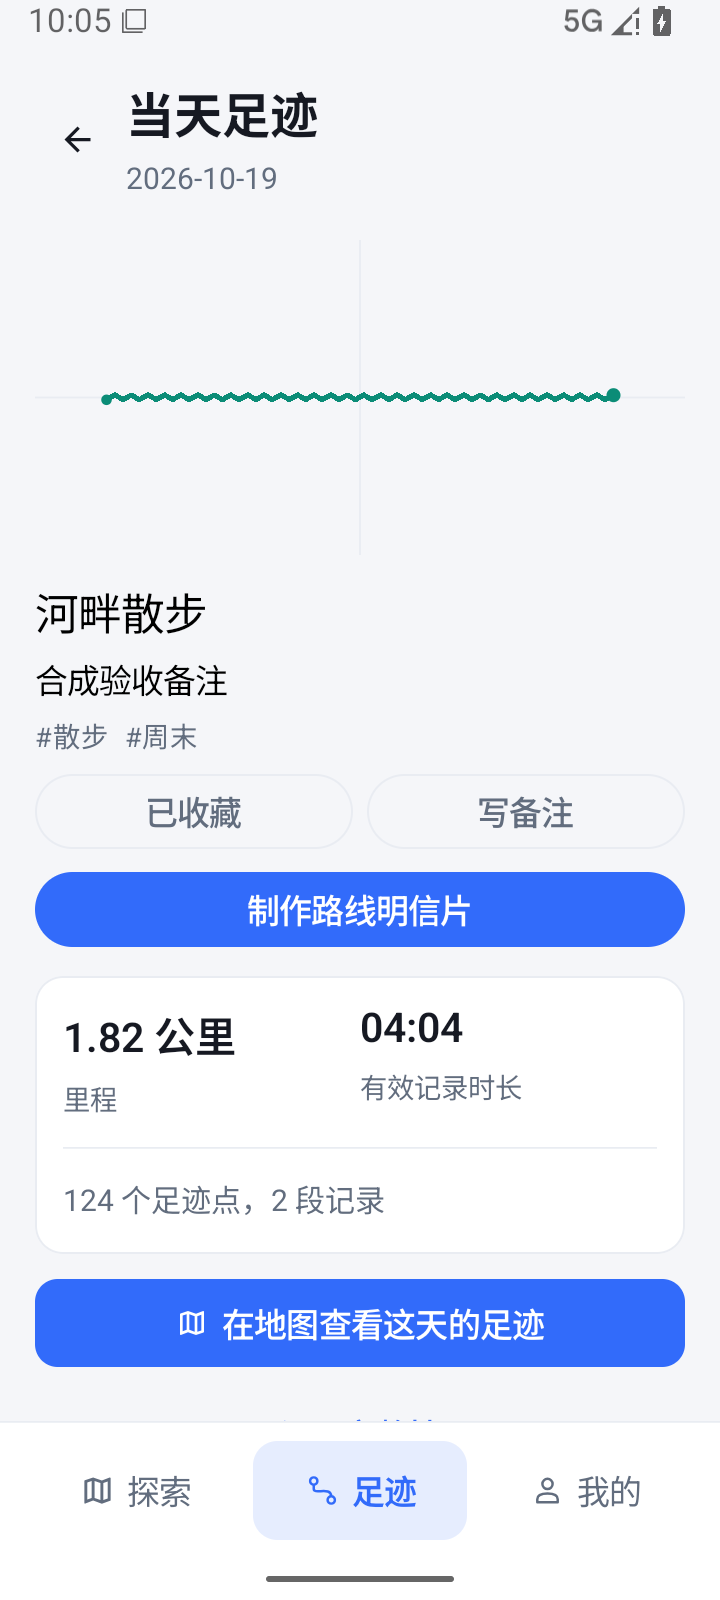
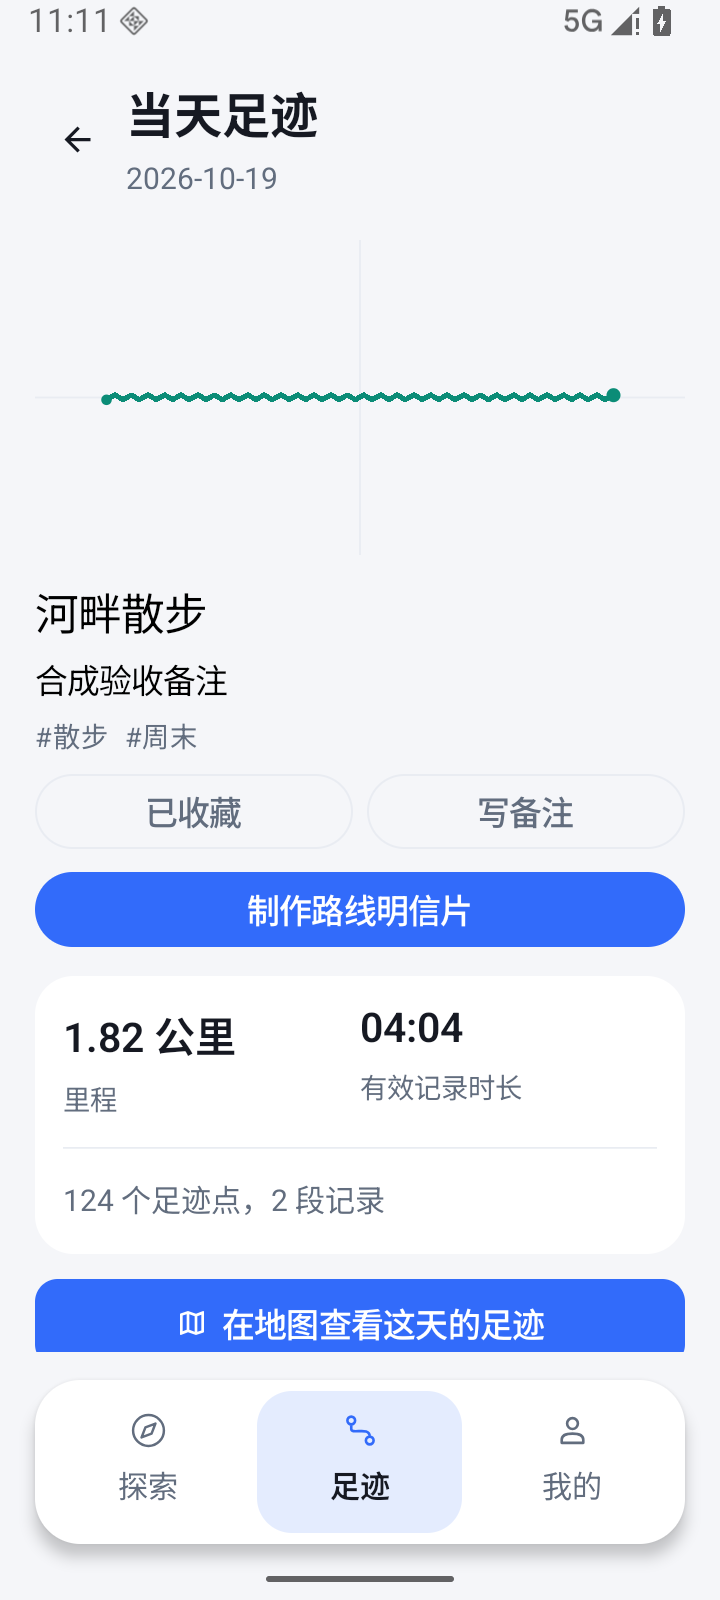
Archive final integrated native journey and source-bound acceptance evidence

Changed region(s): [[0.0306, 0.8438, 0.9778, 1.0], [0.0611, 0.0, 0.2139, 0.0312]]

diff --git a/docs/acceptance/v0.65/README.md b/docs/acceptance/v0.65/README.md
@@ -1,6 +1,6 @@
 # 0.65 候选验收
 
-范围：默认高德的首次体验简化；按天收藏、标题、备注、标签、查找；纸白/夜色路线明信片预览、保存和系统分享；行记随既有 JSON 备份恢复。已合并上游发布的0.64，保留单一高德引擎与历史回放。决策和参考项目见 [体验范围](../../design/experience-20261019.md)。本候选未正式发布。
+范围：默认高德的首次体验简化；按天收藏、标题、备注、标签、查找；纸白/夜色路线明信片预览、保存和系统分享；行记随既有 JSON 备份恢复。已合并上游发布的0.64及a88a11f的自适应导航，保留单一高德引擎与历史回放。决策和参考项目见 [体验范围](../../design/experience-20261019.md)。本候选未正式发布。
 
 ## 数据与交互
 
@@ -14,13 +14,15 @@ GPS过滤、WGS84原件、真实分段、recording_cursor、SQLite schema3保持
 - JDK21 / SDK36，独立开发APK、androidTest构建与lintDebug通过；使用代理及现有CA信任，不关闭TLS。
 - 校验发行摘要后运行与仓库工作流同版的Gitleaks 8.30.1，本分支扫描无凭据泄漏。
 - 原生隔离备份恢复：旧格式、新行记往返、本机编辑优先、重复恢复、未来点原子拒绝、损坏行记保留原件且不丢已恢复轨迹、记录游标保持。见 [结果](backup-restore.log)。该存储实现随后未改动。
-- 原生完整功能流程在1.3倍字体通过：真实控件编辑 → 重新读取文件核对持久化 → 收藏 → 两种明信片预览 → 系统保存 → 从真实返回URI读取PNG（1080×1440、夜色背景、文件名）→ 系统分享选择器与图片预览 → 收藏筛选、无结果查找及标签命中 → 备份注释核对 → 原SQLite五表摘要保持。见 [完整结果](journal-journey-large.log)。没有选择接收人或向外发送图片。
+- 较早源码83cbca4的原生完整功能流程在1.3倍字体通过：真实控件编辑 → 重新读取文件核对持久化 → 收藏 → 两种明信片预览 → 系统保存 → 从真实返回URI读取PNG（1080×1440、夜色背景、文件名）→ 系统分享选择器与图片预览 → 收藏筛选、无结果查找及标签命中 → 备份注释核对 → 原SQLite五表摘要保持。见 [完整结果](journal-journey-large.log)。没有选择接收人或向外发送图片。
 
-[构建来源与产物摘要](build-info.json)绑定具体源码提交。实际发布版本以Releases为准。
+[当前整合构建来源与产物摘要](build-info.json)绑定应用及工具的具体源码提交；[较早完整原生流程的构建摘要](build-info-pre-navigation.json)保留83cbca4来源，不把新构建摘要重标旧测试。实际发布版本以Releases为准。
+
+最终应用源码619577d（合并main a88a11f），验收工具d5f54d3重新完成同一整条流程，并包含系统保存期间Activity重建：**全部通过**。见 [最终整合结果](merged-journey-large.log)。JVM/Python/lint与应用构建在619577d通过，后续仅修改androidTest并重新构建测试APK；图片、源码和两个APK摘要绑定当前build-info.json。
 
 ## 实际渲染
 
-这些都是专用模拟器中的实际界面，使用187点、两天、三段公开坐标构造的合成夹具，原SQLite不写入；不是用户真实旅行记录。
+以下六张大字体图片来自最终整合流程；开发包引导、正常字体行记保留此前来源。所有图片均为专用模拟器中的实际界面，使用187点、两天、三段公开坐标构造的合成夹具，原SQLite不写入；不是用户真实旅行记录。
 
 - [开发包引导](images/welcome-dev-no-map-key.png)：无高德配置，不是正式高德同意分支的验收。
 - [正常字体行记](images/journal-normal.png)：此前同一功能候选的实际编辑与收藏。
@@ -33,6 +35,10 @@ GPS过滤、WGS84原件、真实分段、recording_cursor、SQLite schema3保持
 
 原生工具的早期中止涉及Application初始化时序、系统弹窗、过重的9000点地图性能夹具、自动化连接、系统保存按钮未就绪及按路径寻找SAF文件。已加等待/重试，采用独立小型夹具，并只在androidTest中观察真实文档结果URI，不增加生产诊断Intent或测试出口；截图与构建没有替代行为验收。
 
-保存期间Activity重建的额外场景也已通过：系统文件选择器就绪、主Activity停止后触发重建，返回仍恢复足迹/明信片页面，PNG读取、分享、筛选查找与SQLite摘要检查全部通过。见 [重建结果](picker-recreation-large.log)。这验证Activity重建，不冒称已验证进程死亡或正式签名覆盖升级。
+较早源码83cbca4在保存期间Activity重建的额外场景也已通过：系统文件选择器就绪、主Activity停止后触发重建，返回仍恢复足迹/明信片页面，PNG读取、分享、筛选查找与SQLite摘要检查全部通过。见 [重建结果](picker-recreation-large.log)。这验证Activity重建，不冒称已验证进程死亡或正式签名覆盖升级。
 
 当前环境没有正式高德配置与原签名，未生成可覆盖正式App的更新包。开发包的配置提示页不作为高德联网、道路瓦片或首点开雾验收；实体手机、户外、锁屏、耗电与正式签名覆盖更新均未在本轮验收。历史发布资产未覆盖。
+
+## 整合复测的工具修正
+
+合并自适应导航后，系统文件选择器曾确认辅助功能点击却没有完成保存；补重试后又为重名文件生成“(1)”后缀，旧工具把合法后缀误判为失败。两次中止的原始结果见 [工具记录](tooling-attempts.log)。现仅对仍可见、启用且没有进度条的保存控件重试；文件名必须保留本次唯一请求标识，允许系统重名后缀，仍须通过实际返回URI读取PNG并核对尺寸与夜色像素。没有跳过系统选择器、伪造结果或放宽数据保持检查；这些均为androidTest改动。

diff --git a/docs/design/experience-20261019.md b/docs/design/experience-20261019.md
@@ -26,3 +26,5 @@
 照片日记、复杂挑战、自动推荐目的地和新的空间索引暂不纳入本轮，避免扩大媒体权限、算法和首次使用负担。开发期间 main 已发布 0.64 的历史回放及单一高德引擎；本分支已合并保留，候选顺延为 0.65。
 
 正式版本保持高德与原签名；当前环境无正式高德配置与原签名，本轮只构建独立开发包验收，开发包也只有高德路径，不以地图配置提示页冒充高德联网验收或发布。
+
+最终同步 main a88a11f 的山水主题与自适应导航，保留按实测高度避让底部导航的布局；地图上的记录处理入口继续直接处理权限/定位问题。
